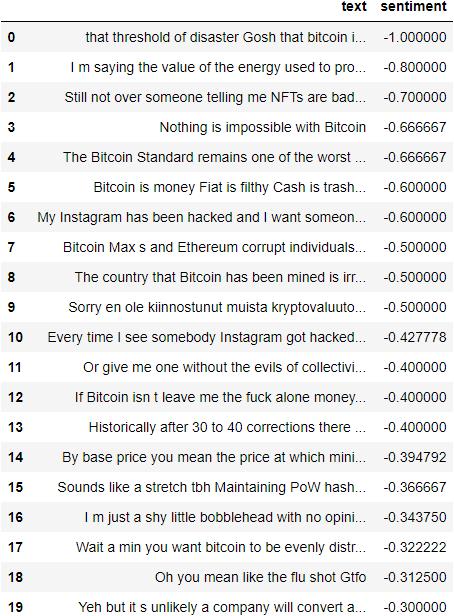
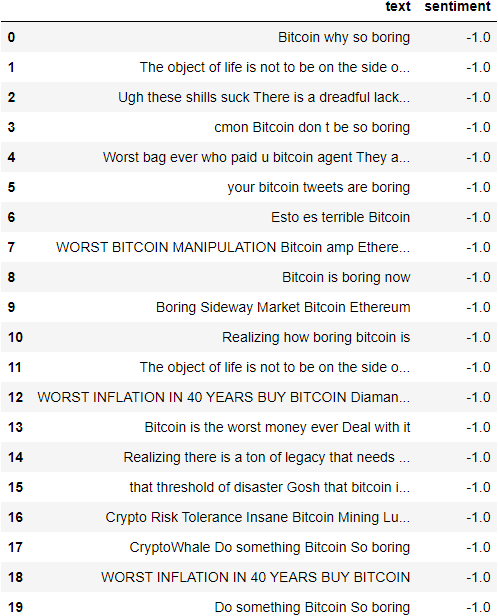
new article

diff --git a/_content/articles/220118_bitcoin_tweet/generated.html b/_content/articles/220118_bitcoin_tweet/generated.html
@@ -93,7 +93,7 @@ df</code></pre>
 <p>This is a screenshot of the dataframe after preprocessing:</p>
 
 <!-- wp:image {"align":"center","width":480,"height":616,"sizeSlug":"large","className":"is-style-default"} -->
-<div class="wp-block-image is-style-default"><figure class="aligncenter size-large is-resized"><img src=@@@df alt="" width="390" height="616"/><figcaption>@@@df_caption</figcaption></figure></div>
+<div class="wp-block-image is-style-default"><figure class="aligncenter size-large is-resized"><img src=https://raw.githubusercontent.com/arditoibryan/pythonkai/main/_content/articles/220118_bitcoin_tweet/df.png alt="" width="390" height="616"/><figcaption>raw data sample</figcaption></figure></div>
 <!-- /wp:image -->
 
 <!-- wp:heading {"textColor":"secondary"} -->
@@ -128,7 +128,7 @@ df_sentiment</code></pre>
 <p>As we can see, this is the final result:</p>
 
 <!-- wp:image {"align":"center","width":480,"height":616,"sizeSlug":"large","className":"is-style-default"} -->
-<div class="wp-block-image is-style-default"><figure class="aligncenter size-large is-resized"><img src=@@@df_sentiment alt="" width="480" height="616"/><figcaption>_</figcaption></figure></div>
+<div class="wp-block-image is-style-default"><figure class="aligncenter size-large is-resized"><img src=https://raw.githubusercontent.com/arditoibryan/pythonkai/main/_content/articles/220118_bitcoin_tweet/df_sentiment.png alt="" width="480" height="616"/><figcaption>sample of the sentiment analyis</figcaption></figure></div>
 <!-- /wp:image -->
 
 <p>I decided to sort the values from the most negative, so that we could see some of the most shocking comments regarding Bitcoin tweets.</p>
@@ -202,7 +202,7 @@ df_sentiment</code></pre>
 <!-- /wp:code -->
 
 <!-- wp:image {"align":"center","width":480,"height":616,"sizeSlug":"large","className":"is-style-default"} -->
-<div class="wp-block-image is-style-default"><figure class="aligncenter size-large is-resized"><img src=@@@df_sentiment_preprocessed alt="" width="480" height="616"/><figcaption>_</figcaption></figure></div>
+<div class="wp-block-image is-style-default"><figure class="aligncenter size-large is-resized"><img src=https://raw.githubusercontent.com/arditoibryan/pythonkai/main/_content/articles/220118_bitcoin_tweet/df_sentiment_preprocessed.png alt="" width="480" height="616"/><figcaption>sample of preprocessed data</figcaption></figure></div>
 <!-- /wp:image -->
 
 <p>There are several ways we can analyze the results from the sentiment analysis. One common practice is to separate the samples with negative sentiment from the ones with a positive sentiment and extract what are the most common words. </p>
@@ -219,8 +219,8 @@ df_pos = df_sentiment&#91;df_sentiment&#91;'sentiment'] &gt; 0]
 <pre class="wp-block-code has-background-color has-primary-background-color has-text-color has-background"><code>print(len(df_neg))
 print(len(df_pos))
 \
-@@@len_df_neg
-@@@len_df_pos
+122
+353
 </code></pre>
 <!-- /wp:code -->
 
@@ -235,17 +235,17 @@ negative_words = pd.DataFrame(&#91;dict(Counter(' '.join(df_neg&#91;'text'].valu
 <p>These are the most common words found in the positive tweets:</p>
 
 <!-- wp:code {"backgroundColor":"primary"} -->
-<pre class="wp-block-code has-primary-background-color has-background"><code>@@@positive_words</code></pre>
+<pre class="wp-block-code has-primary-background-color has-background"><code>['bitcoin', 'btc', 'crypto', 'price', 'block', 'cryptocurrency', 'get', 'new', 'would', 'first', 'like', 'high', 'time', 'market', 'ethereum', 'gold', 'year', 'sign', 'eth', 'usd', 'blockchain', 'one', 'free', 'money', 'better', 'right', 'asia', 'amid', 'continues', 'need', 'tweet', 'mover', 'sluggishness', 'buy', 'darkening', 'people', 'economic', 'amp', 'still', 'know', 'real', 'also', 'week', 'top', 'change', 'good', 'transaction', 'day', 'love', 'last', 'hit', 'make', 'many', 'even', 'much', 'start', 'network', 'help', 'via', 'coin', 'nft', 'say', 'reward', 'asset', 'world', 'investment', 'lol', 'sure', 'early', 'thing', 'great', 'tell', 'see', 'latest', 'going', 'earn', 'system', 'best', 'exchange', 'well', 'value', 'believe', 'analysis', 'want', 'used', 'understand', 'low', 'look', 'lot', 'cardano', 'total', 'find', 'node', 'keep', 'miner', 'found', 'think', 'mining', 'xrp', 'max']</code></pre>
 <!-- /wp:code -->
 
 <p>These, instead, are the most common words found in the negative tweets:</p>
 
 <!-- wp:code {"backgroundColor":"primary"} -->
-<pre class="wp-block-code has-primary-background-color has-background"><code>@@@negative_words</code></pre>
+<pre class="wp-block-code has-primary-background-color has-background"><code>['bitcoin', 'crypto', 'price', 'btc', 'nfts', 'ethereum', 'big', 'week', 'hit', 'bnb', 'swing', 'extreme', 'braced', 'cardano', 'solana', 'xrp', 'buy', 'get', 'think', 'like', 'usdt', 'nft', 'going', 'one', 'would', 'time', 'amp', 'long', 'thing', 'cryptocurrency', 'want', 'lot', 'money', 'world', 'see', 'exchange', 'people', 'bad', 'cryptonews', 'line', 'right', 'new', 'nothing', 'le', 'hour', 'fed', 'sat', 'look', 'miner', 'anything', 'mean', 'use', 'rate', 'forbes', 'change', 'mining', 'supply', 'chart', 'buying', 'medium', 'need', 'early', 'worst', 'value', 'billion', 'give', 'still', 'someone', 'know', 'around', 'find', 'make', 'ever', 'fiat', 'back', 'getting', 'wallet', 'network', 'chain', 'bottom', 'last', 'since', 'said', 'coin', 'red', 'twitter', 'attack', 'foo', 'missing', 'hard', 'matter', 'cryptocurrencies', 'today', 'min', 'side', 'started', 'beginning', 'imagine', 'blockchain', 'fee']</code></pre>
 <!-- /wp:code -->
 
 <!-- wp:heading {"textColor":"secondary"} -->
 <h2 class="has-secondary-color has-text-color" id="5-conclusion">5. Conclusion</h2>
 <!-- /wp:heading -->
 
-<p>Given the insights we have been inferencing using NLP we can see that there is a prevalent @sentiment_score regarding @@@project name.</p>
+<p>Given the insights we have been inferencing using NLP we can see that there is a prevalent positive opinion regarding Bitcoin tweets.</p>
